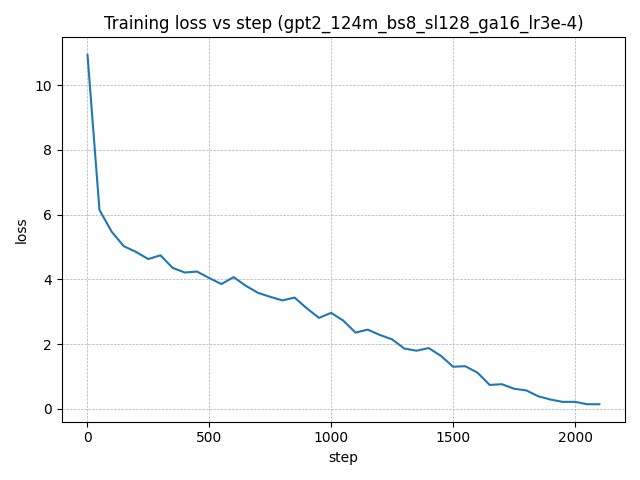
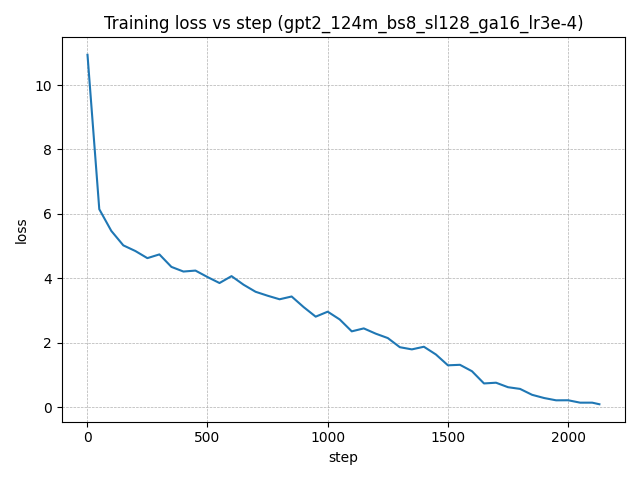
Update in readme file

diff --git a/README.md b/README.md
@@ -119,11 +119,11 @@ This section is **auto-filled** by `update_readme.py`.
 
 ### Summary
 <!--AUTO:SUMMARY:START-->
-- Updated: **2025-12-14 10:57**
+- Updated: **2025-12-14 11:14**
 - Run directory: `out/runs/gpt2_124m_bs8_sl128_ga16_lr3e-4`
-- Best loss: **0.138859** at step **2050**
-- Last logged loss: **0.139297**
-- Total logged rows: **43**
+- Best loss: **0.089860** at step **2130**
+- Last logged loss: **0.089860**
+- Total logged rows: **44**
 <!--AUTO:SUMMARY:END-->
 
 ### Training log excerpt
@@ -216,10 +216,10 @@ This section is **auto-filled** by `update_readme.py`.
 <!--AUTO:METRICS:START-->
 | Metric | Value |
 |---|---:|
-| Best loss | 0.138859 |
-| Step at best loss | 2050 |
-| Last logged loss | 0.139297 |
-| Total logged rows | 43 |
+| Best loss | 0.089860 |
+| Step at best loss | 2130 |
+| Last logged loss | 0.089860 |
+| Total logged rows | 44 |
 <!--AUTO:METRICS:END-->
 
 ### Sample generations
